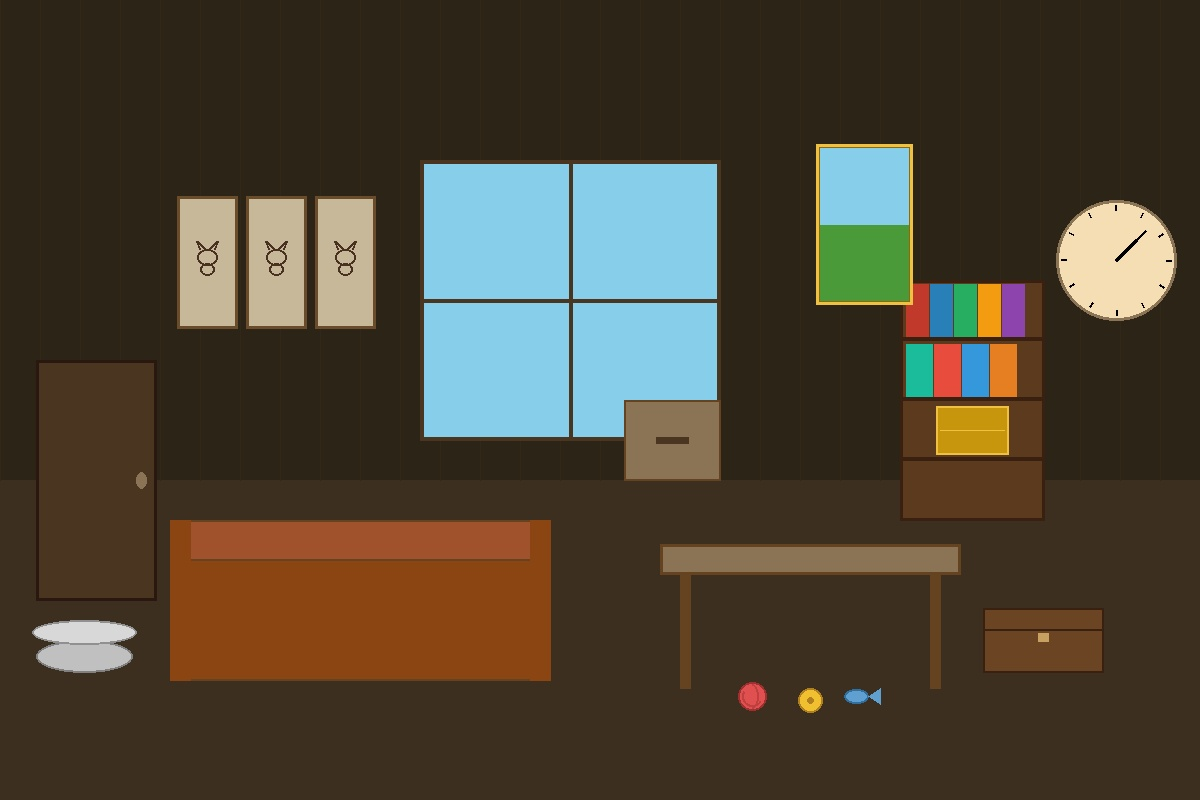
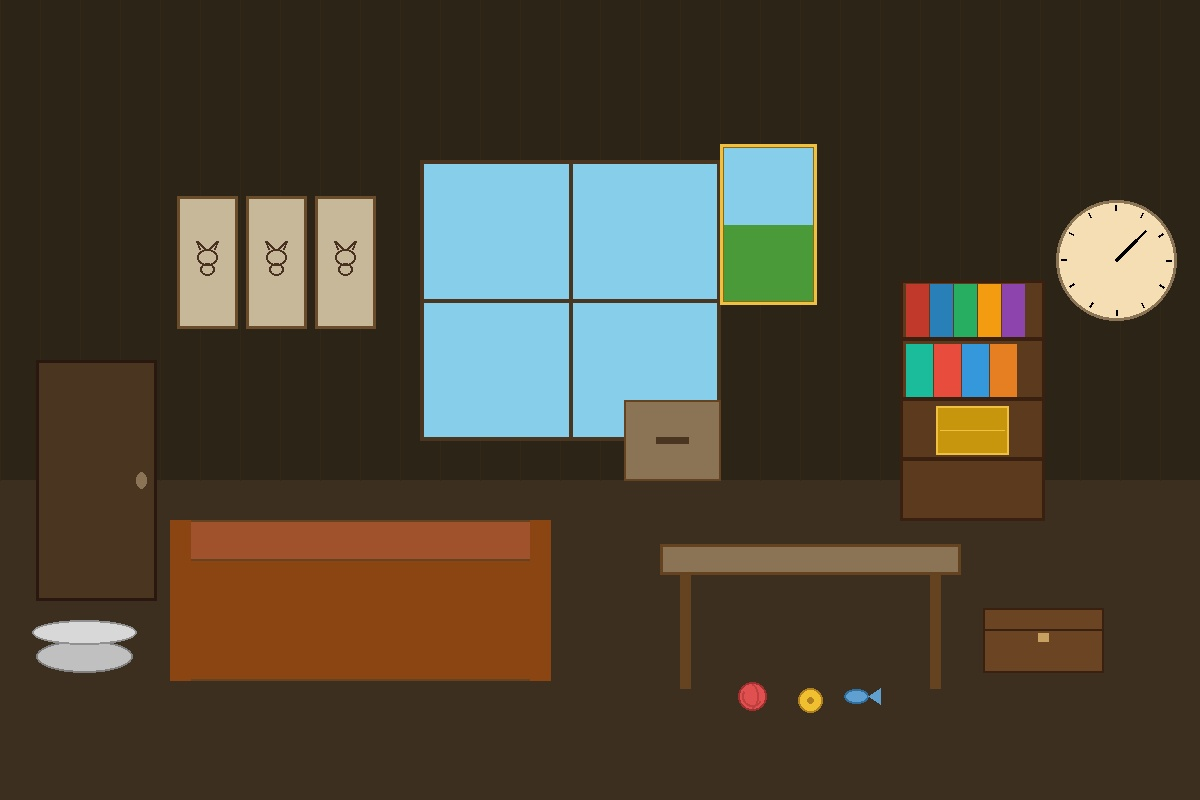
add new

Changed region(s): [[0.5858, 0.1562, 0.7708, 0.4062]]

diff --git a/game.js b/game.js
@@ -74,7 +74,7 @@ const roomObjects = [
     { id: 'toys',        x: '60%', y: '82%', width: '15%', height: '10%', label: '猫玩具',  onClick: interactToys },
     { id: 'bookshelf',   x: '75%', y: '35%', width: '12%', height: '30%', label: '书架',    onClick: interactBookshelf },
     { id: 'food-bowl',   x: '3%',  y: '78%', width: '8%',  height: '8%',  label: '食盆',    onClick: interactFoodBowl },
-    { id: 'painting',    x: '68%', y: '18%', width: '8%',  height: '20%', label: '画',      onClick: interactPainting },
+    { id: 'painting',    x: '60%', y: '18%', width: '8%',  height: '20%', label: '画',      onClick: interactPainting },
     { id: 'toy-box',     x: '82%', y: '76%', width: '10%', height: '8%',  label: '玩具箱',  onClick: interactToyBox }
 ];
 
@@ -186,6 +186,7 @@ function showDragHint() {
 function startGame() {
     document.getElementById('title-screen').classList.add('hidden');
     document.getElementById('game-play').classList.remove('hidden');
+    document.getElementById('inventory-toggle').classList.remove('hidden');
 
     if (isMobileDevice()) {
         setupPortraitDrag();
@@ -2024,6 +2025,7 @@ function restartGame() {
     document.getElementById('ending-screen').classList.add('hidden');
     document.getElementById('title-screen').classList.remove('hidden');
     document.getElementById('game-play').classList.add('hidden');
+    document.getElementById('inventory-toggle').classList.add('hidden');
     document.getElementById('inventory-panel').classList.add('hidden');
     document.getElementById('sofa-corner-scene').classList.add('hidden');
     document.getElementById('drawer-scene').classList.add('hidden');

diff --git a/index.html b/index.html
@@ -149,7 +149,7 @@
         </div>
 
         <!-- 物品栏（全局，所有场景可见） -->
-        <button id="inventory-toggle">🎒</button>
+        <button id="inventory-toggle" class="hidden">🎒</button>
         <div id="inventory-panel" class="hidden">
             <div class="inventory-header">物品栏</div>
             <div id="inventory-items"></div>

diff --git a/generate_images.py b/generate_images.py
@@ -206,8 +206,8 @@ def create_room_background():
     draw.ellipse([(fb_cx-fb_w//2-4, fb_cy-fb_h//2-4), (fb_cx+fb_w//2+4, fb_cy-fb_h//4+4)],
                  fill='#d8d8d8', outline='#909090', width=2)
 
-    # 画框 (书架左侧墙面 68%, 18%, 8%x20%)
-    pf_x = int(width * 0.68)
+    # 画框 (书架左侧墙面 60%, 18%, 8%x20%)
+    pf_x = int(width * 0.60)
     pf_y = int(height * 0.18)
     pf_w = int(width * 0.08)
     pf_h = int(height * 0.20)
